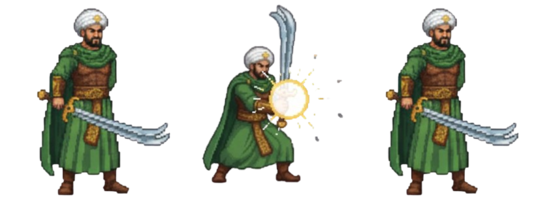
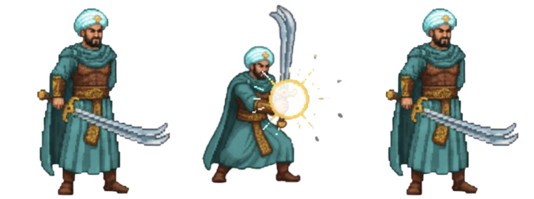
Add enemy attack system and character-specific sprites
Features:
- Enemy now attacks automatically every 1 second
- Enemy attack animation with 5-frame spritesheet
- Player can block enemy attacks with S key
- Each character (1, 2, 3) now uses their own sprite sets
- Character-specific assets for attack, jump, walk, and block
- Added enemy_attack.png for enemy combat animations
- Improved combat system with hit detection for both sides

diff --git a/src/DuelScene.cpp b/src/DuelScene.cpp
@@ -14,17 +14,20 @@ void DuelScene::onEnter(Game* game) {
     enemyAlive = true;
 
     // Ambil data karakter terpilih dari Game
+    int selectedCharID = 0; // default char 1
     if (gamePtr) {
         const auto& ch = gamePtr->getChosenCharacter();
         playerName          = ch.displayName;
         player.hp           = ch.maxHP;
         player.maxHP        = ch.maxHP;
         playerAttackDamage  = ch.baseAttack;
+        selectedCharID      = ch.characterID;
     } else {
         playerName          = "Pejuang";
         player.hp           = 100;
         player.maxHP        = 100;
         playerAttackDamage  = 15;
+        selectedCharID      = 0;
     }
 
     // Musuh
@@ -41,9 +44,16 @@ void DuelScene::onEnter(Game* game) {
 
     // --- Load sprite player (spritesheet serangan) ---
     {
-        SDL_Surface* surf = IMG_Load("../assets/images/player_attack.png");
+        // Build filename based on character ID
+        std::string attackFile = "../assets/images/player_attack";
+        if (selectedCharID > 0) {
+            attackFile += std::to_string(selectedCharID + 1); // char 0->player_attack.png, 1->player_attack2.png, 2->player_attack3.png
+        }
+        attackFile += ".png";
+        
+        SDL_Surface* surf = IMG_Load(attackFile.c_str());
         if (!surf) {
-            std::cerr << "[DuelScene] Failed to load player_attack.png: " << IMG_GetError() << "\n";
+            std::cerr << "[DuelScene] Failed to load " << attackFile << ": " << IMG_GetError() << "\n";
         } else {
             player.texture = SDL_CreateTextureFromSurface(gamePtr->getRenderer(), surf);
 
@@ -79,11 +89,32 @@ void DuelScene::onEnter(Game* game) {
         }
     }
 
+    // --- Load sprite enemy attack (5 frame) ---
+    {
+        SDL_Surface* surf = IMG_Load("../assets/images/enemy_attack.png");
+        if (!surf) {
+            std::cerr << "[DuelScene] Failed to load enemy_attack.png: " << IMG_GetError() << "\n";
+        } else {
+            enemyAttackTex = SDL_CreateTextureFromSurface(gamePtr->getRenderer(), surf);
+            enemyAttackFrameCount = 5;
+            enemyAttackFrameW = surf->w / enemyAttackFrameCount;
+            enemyAttackFrameH = surf->h;
+            SDL_FreeSurface(surf);
+        }
+    }
+    enemyAttackTimer = enemyAttackCooldown; // start ready to attack
+
     // --- Load sprite player jump (5 frame) ---
     {
-        SDL_Surface* s = IMG_Load("../assets/images/jump3.png");
+        std::string jumpFile = "../assets/images/jump";
+        if (selectedCharID > 0) {
+            jumpFile += std::to_string(selectedCharID + 1);
+        }
+        jumpFile += ".png";
+        
+        SDL_Surface* s = IMG_Load(jumpFile.c_str());
         if (!s) {
-            std::cerr << "[DuelScene] load player_jump.png fail: " << IMG_GetError() << "\n";
+            std::cerr << "[DuelScene] load " << jumpFile << " fail: " << IMG_GetError() << "\n";
         } else {
             playerJumpTex = SDL_CreateTextureFromSurface(gamePtr->getRenderer(), s);
             jumpFrameCount = 5;
@@ -96,9 +127,15 @@ void DuelScene::onEnter(Game* game) {
 
     // --- Load sprite player walk (6 frame) ---
     {
-        SDL_Surface* s = IMG_Load("../assets/images/walk3.png"); // simpan walk.png ke path ini
+        std::string walkFile = "../assets/images/walk";
+        if (selectedCharID > 0) {
+            walkFile += std::to_string(selectedCharID + 1);
+        }
+        walkFile += ".png";
+        
+        SDL_Surface* s = IMG_Load(walkFile.c_str()); // simpan walk.png ke path ini
         if (!s) {
-            std::cerr << "[DuelScene] Failed to load player_walk.png: " << IMG_GetError() << "\n";
+            std::cerr << "[DuelScene] Failed to load " << walkFile << ": " << IMG_GetError() << "\n";
         } else {
             playerWalkTex = SDL_CreateTextureFromSurface(gamePtr->getRenderer(), s);
             walkFrameCount = 5;                 // sesuai sheet yang kamu kirim
@@ -112,9 +149,15 @@ void DuelScene::onEnter(Game* game) {
 
     // --- Load sprite player block (3 frame) ---
     {
-        SDL_Surface* s = IMG_Load("../assets/images/block2.png"); // simpan block.png ke path ini
+        std::string blockFile = "../assets/images/block";
+        if (selectedCharID > 0) {
+            blockFile += std::to_string(selectedCharID + 1);
+        }
+        blockFile += ".png";
+        
+        SDL_Surface* s = IMG_Load(blockFile.c_str()); // simpan block.png ke path ini
         if (!s) {
-            std::cerr << "[DuelScene] Failed to load player_block.png: "
+            std::cerr << "[DuelScene] Failed to load " << blockFile << ": "
                     << IMG_GetError() << "\n";
         } else {
             playerBlockTex = SDL_CreateTextureFromSurface(gamePtr->getRenderer(), s);
@@ -222,6 +265,9 @@ void DuelScene::update(float dt) {
     updatePlayerJump(dt);
     updatePlayerWalk(dt);
     updateBlock(dt);
+    
+    // enemy attack logic
+    updateEnemyAttack(dt);
 
     // cek kalau musuh udah habis HP
     if (enemyHP <= 0 && enemyAlive) {
@@ -564,23 +610,38 @@ void DuelScene::render(SDL_Renderer* renderer, TextRenderer* text) {
 
 
     // ===== ENEMY =====
-    if (enemy.texture && enemyAlive) {
-        SDL_Rect srcE;                   // <-- deklarasi DI SINI
-        srcE.x = 0;
-        srcE.y = 0;
-        srcE.w = enemy.frameW;
-        srcE.h = enemy.frameH;
-
+    if (enemyAlive) {
+        SDL_Texture* enemyTex = nullptr;
+        SDL_Rect srcE;
         SDL_Rect dstE;
-        dstE.w = int(enemy.frameW * spriteScale);
-        dstE.h = int(enemy.frameH * spriteScale);
-        dstE.x = int(enemy.x - dstE.w / 2);
-        dstE.y = int(enemy.y - dstE.h);
-
-        SDL_RenderCopyEx(renderer, enemy.texture, &srcE, &dstE,
-                 0.0, nullptr,
-                 enemyFacingRight ? SDL_FLIP_NONE : SDL_FLIP_HORIZONTAL);
-
+        
+        // Choose texture based on attack state
+        if (enemy.attacking && enemyAttackTex) {
+            enemyTex = enemyAttackTex;
+            srcE.x = enemy.currentFrame * enemyAttackFrameW;
+            srcE.y = 0;
+            srcE.w = enemyAttackFrameW;
+            srcE.h = enemyAttackFrameH;
+            dstE.w = int(enemyAttackFrameW * spriteScale);
+            dstE.h = int(enemyAttackFrameH * spriteScale);
+        } else if (enemy.texture) {
+            enemyTex = enemy.texture;
+            srcE.x = 0;
+            srcE.y = 0;
+            srcE.w = enemy.frameW;
+            srcE.h = enemy.frameH;
+            dstE.w = int(enemy.frameW * spriteScale);
+            dstE.h = int(enemy.frameH * spriteScale);
+        }
+        
+        if (enemyTex) {
+            dstE.x = int(enemy.x - dstE.w / 2);
+            dstE.y = int(enemy.y - dstE.h);
+            
+            SDL_RenderCopyEx(renderer, enemyTex, &srcE, &dstE,
+                     0.0, nullptr,
+                     enemyFacingRight ? SDL_FLIP_NONE : SDL_FLIP_HORIZONTAL);
+        }
     }
 
     // ===== HP bars (tetap) =====
@@ -605,5 +666,91 @@ void DuelScene::render(SDL_Renderer* renderer, TextRenderer* text) {
     text->drawText(renderer, "[ESC] Mundur & kembali ke menu", 20, instrY+72, SDL_Color{220,220,220,255});
 
     text->drawText(renderer, "Duel!", winW/2 - 20, 10, SDL_Color{255,255,255,255});
+}
+
+void DuelScene::startEnemyAttack() {
+    if (!enemyAlive) return;
+    enemy.attacking = true;
+    enemy.attackTimer = 0.0f;
+    enemy.currentFrame = 1;
+    hasEnemyHitThisSwing = false;
+    std::cout << "[Enemy] Musuh menyerang!\n";
+}
+
+void DuelScene::updateEnemyAttack(float dt) {
+    if (!enemyAlive) return;
+    
+    // cooldown timer for attacks
+    if (!enemy.attacking) {
+        enemyAttackTimer += dt;
+        if (enemyAttackTimer >= enemyAttackCooldown) {
+            enemyAttackTimer = 0.0f;
+            startEnemyAttack();
+        }
+        return;
+    }
+    
+    // update attack animation
+    enemy.attackTimer += dt;
+    int frameIndex = (int)(enemy.attackTimer / enemy.attackFrameDuration);
+    
+    if (frameIndex >= enemyAttackFrameCount) {
+        enemy.attacking = false;
+        enemy.currentFrame = 0;
+        return;
+    } else {
+        enemy.currentFrame = frameIndex;
+    }
+    
+    // check if enemy hit player
+    checkEnemyHitAndDamagePlayer();
+}
+
+void DuelScene::checkEnemyHitAndDamagePlayer() {
+    if (hasEnemyHitThisSwing) return;
+    if (blocking) {
+        // player is blocking, no damage
+        if (!hasEnemyHitThisSwing) {
+            std::cout << "[Blocked] Kamu berhasil memblokir serangan!\n";
+            hasEnemyHitThisSwing = true;
+        }
+        return;
+    }
+    
+    int winW = 800, winH = 480;
+    if (gamePtr) gamePtr->getWindowSize(winW, winH);
+    float spriteScale = std::clamp(winH / 720.0f, 1.0f, 2.4f);
+    
+    // player hitbox
+    SDL_Rect playerBox;
+    playerBox.w = int(player.frameW * spriteScale);
+    playerBox.h = int(player.frameH * spriteScale);
+    playerBox.x = int(player.x - playerBox.w / 2);
+    playerBox.y = int(player.y - playerBox.h);
+    
+    // enemy attack hitbox (mirrored from player attack)
+    const int baseW = 80, baseH = 40, offset = 20, up = 60;
+    SDL_Rect attackBox;
+    attackBox.w = int(baseW * spriteScale);
+    attackBox.h = int(baseH * spriteScale);
+    attackBox.y = int(enemy.y - up * spriteScale);
+    
+    if (enemyFacingRight) {
+        attackBox.x = int(enemy.x + offset * spriteScale);
+    } else {
+        attackBox.x = int(enemy.x - offset * spriteScale - attackBox.w);
+    }
+    
+    bool overlap = !( attackBox.x + attackBox.w < playerBox.x ||
+                      attackBox.x > playerBox.x + playerBox.w ||
+                      attackBox.y + attackBox.h < playerBox.y ||
+                      attackBox.y > playerBox.y + playerBox.h );
+    
+    if (overlap) {
+        player.hp -= enemyAttackDamage;
+        if (player.hp < 0) player.hp = 0;
+        hasEnemyHitThisSwing = true;
+        std::cout << "[Hit] Musuh memukul! HP kamu: " << player.hp << "\n";
+    }
 }
 

diff --git a/src/DuelScene.hpp b/src/DuelScene.hpp
@@ -63,6 +63,16 @@ private:
     int enemyMaxHP;
     bool enemyAlive;
     bool hasHitThisSwing = false;
+    
+    // enemy attack
+    SDL_Texture* enemyAttackTex = nullptr;
+    int enemyAttackFrameW = 0;
+    int enemyAttackFrameH = 0;
+    int enemyAttackFrameCount = 5;
+    float enemyAttackCooldown = 1.0f; // attack every 1 second
+    float enemyAttackTimer = 0.0f;
+    bool hasEnemyHitThisSwing = false;
+    int enemyAttackDamage = 12;
 
     bool playerFacingRight = true;
     bool enemyFacingRight  = false;
@@ -122,6 +132,10 @@ private:
     void updatePlayerAttack(float dt);
     void updateFacing();
     void checkHitAndDamageEnemy();
+    
+    void startEnemyAttack();
+    void updateEnemyAttack(float dt);
+    void checkEnemyHitAndDamagePlayer();
     // Helper
     void startPlayerJump();
     void updatePlayerJump(float dt);

diff --git a/src/CharacterSelectScene.cpp b/src/CharacterSelectScene.cpp
@@ -17,19 +17,22 @@ void CharacterSelectScene::onEnter(Game* game) {
         "Char 1",
         90,     // maxHP lebih kecil tapi serang tinggi
         20,     // baseAttack
-        0       // frame index di spritesheet
+        0,      // frame index di spritesheet
+        0       // characterID (uses player_attack.png)
     };
     candidates[1] = ChosenCharacterData{
         "Char 2",
         110,    // maxHP besar (tank)
         18,     // baseAttack
-        1
+        1,
+        1       // characterID (uses player_attack2.png)
     };
     candidates[2] = ChosenCharacterData{
         "Char 3",
         100,    // balanced
         16,     // baseAttack
-        2
+        2,
+        2       // characterID (uses player_attack3.png)
     };
 
     // --- 2. load texture spritesheet (choose.png) ---

diff --git a/src/Game.hpp b/src/Game.hpp
@@ -10,6 +10,7 @@ struct ChosenCharacterData {
     int baseAttack;
     // nanti bisa tambah sprite rect / texture ID dsb
     int spriteIndex; // 0 = kiri (putih), 1 = tengah (biru), 2 = kanan (merah)
+    int characterID; // 0, 1, or 2 for which character asset to use
 };
 
 
